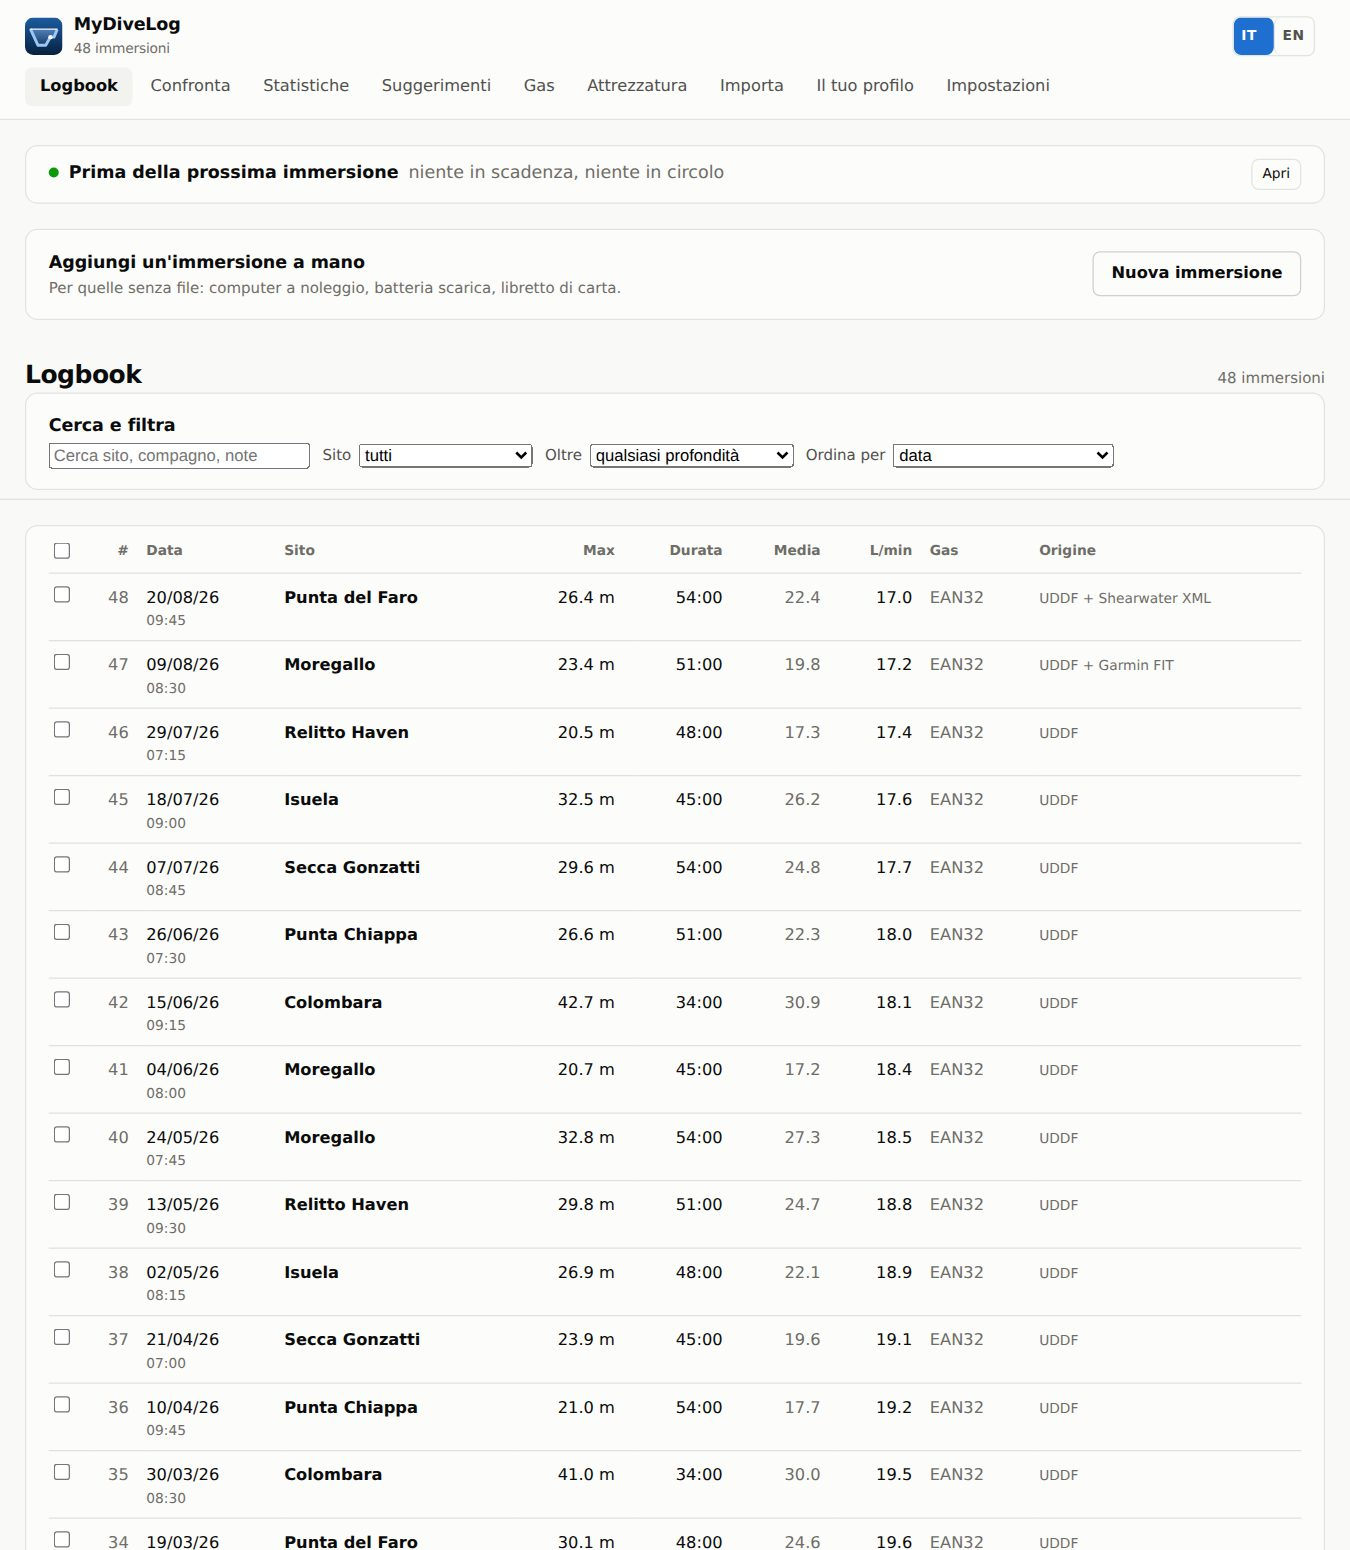
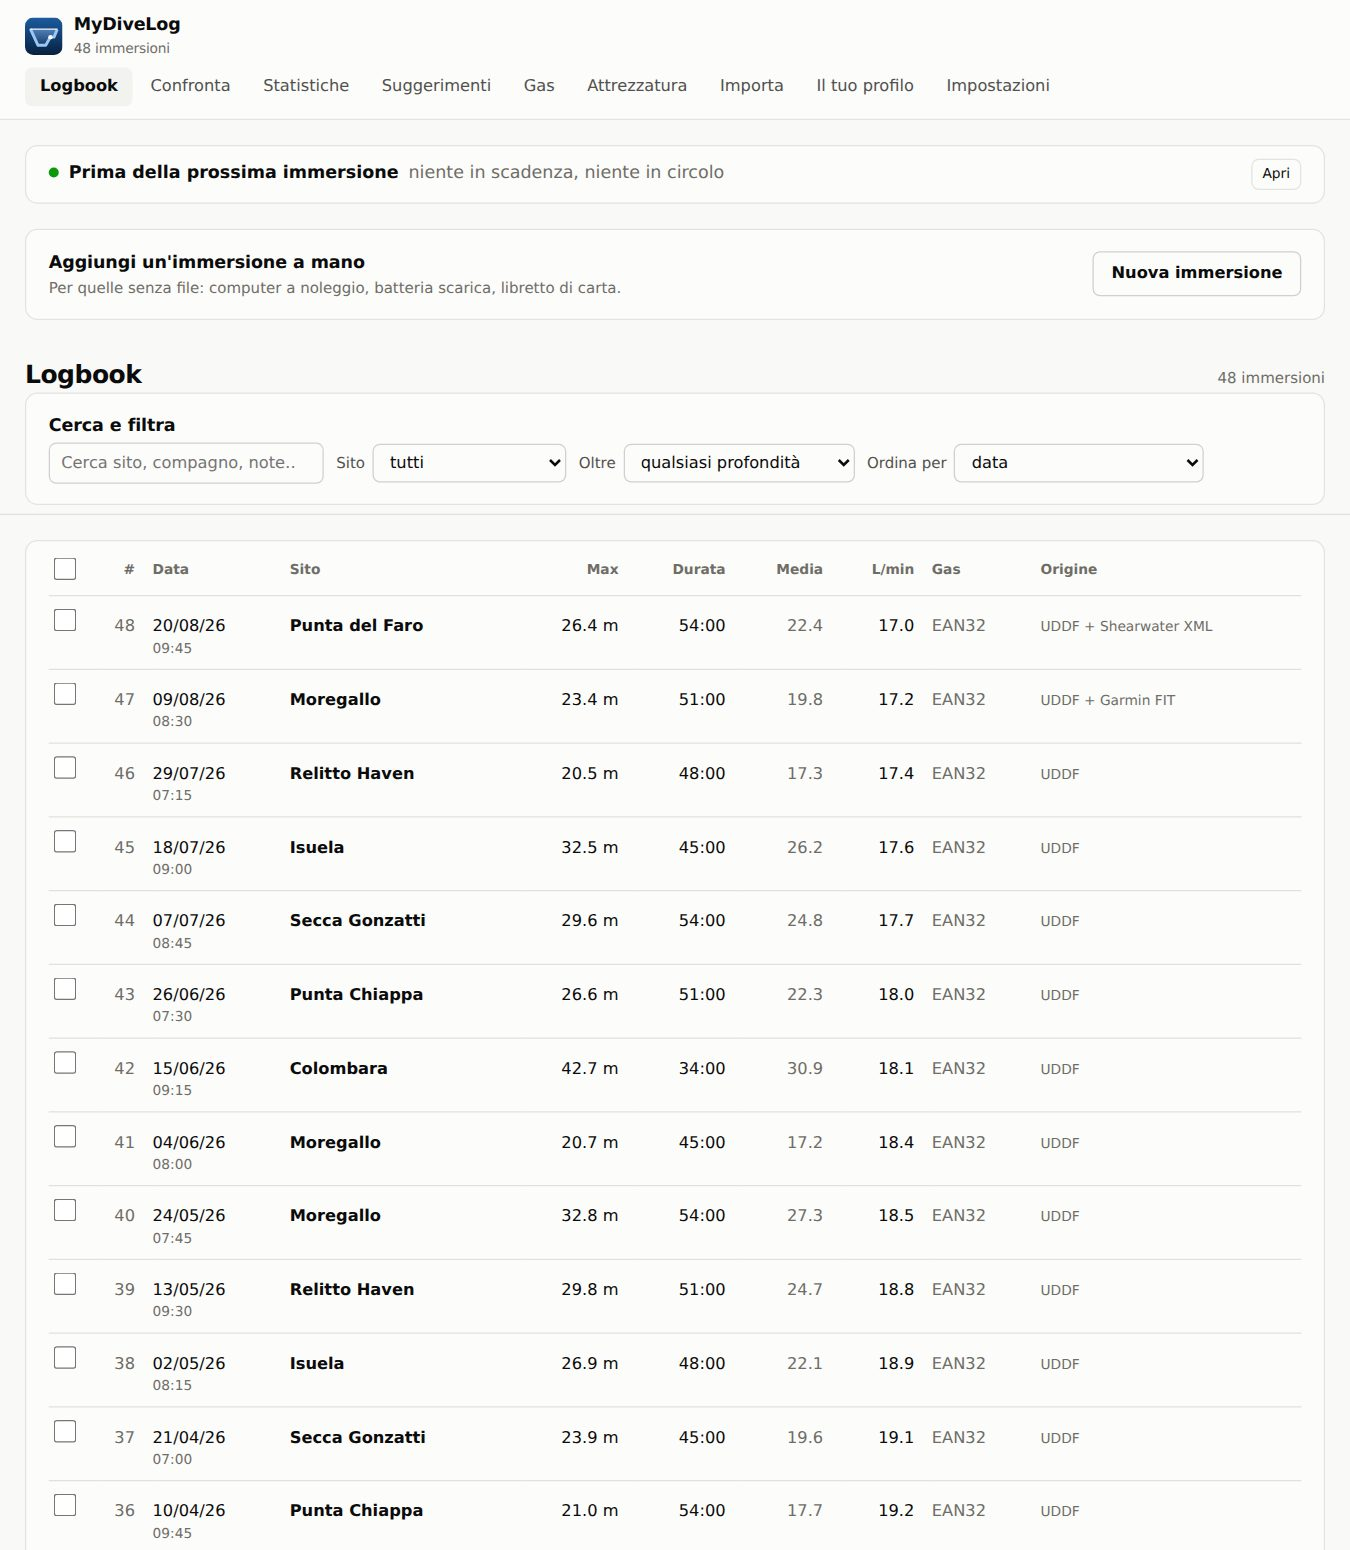
Le impronte della 1.8.28, e le schermate del sito rifatte sull'interfaccia nuova
Le cinque impronte sono calcolate sui file che vengono allegati alla release,
non su una compilazione precedente.

E le quattordici fotografie della vetrina sono state rigenerate dalla build di
oggi: mostravano campi col bordo di fabbrica e la coppia IT/EN nella barra, cioè
un'applicazione che non esiste più. Un sito che mostra una schermata che il
programma non produce è una promessa sbagliata fatta a chi non l'ha mai vista.

Claude-Session: https://claude.ai/code/session_01VJxyVqCmjTpbwmz19L1chD

diff --git a/docs/RELEASE-v1.8.28.md b/docs/RELEASE-v1.8.28.md
@@ -74,3 +74,16 @@ più.
 Ogni correzione ha una prova, e ogni prova è stata rimessa alla prova rimettendo
 il difetto: **2 865 controlli automatici in 179 file**, più **149** sul motore
 nativo.
+
+### Impronte SHA-256
+
+Calcolate sui file allegati a questa release, non su una compilazione
+precedente: due compilazioni non danno lo stesso byte.
+
+| Pacchetto | SHA-256 | byte |
+|---|---|---|
[5 lines of base64/hex data omitted]
